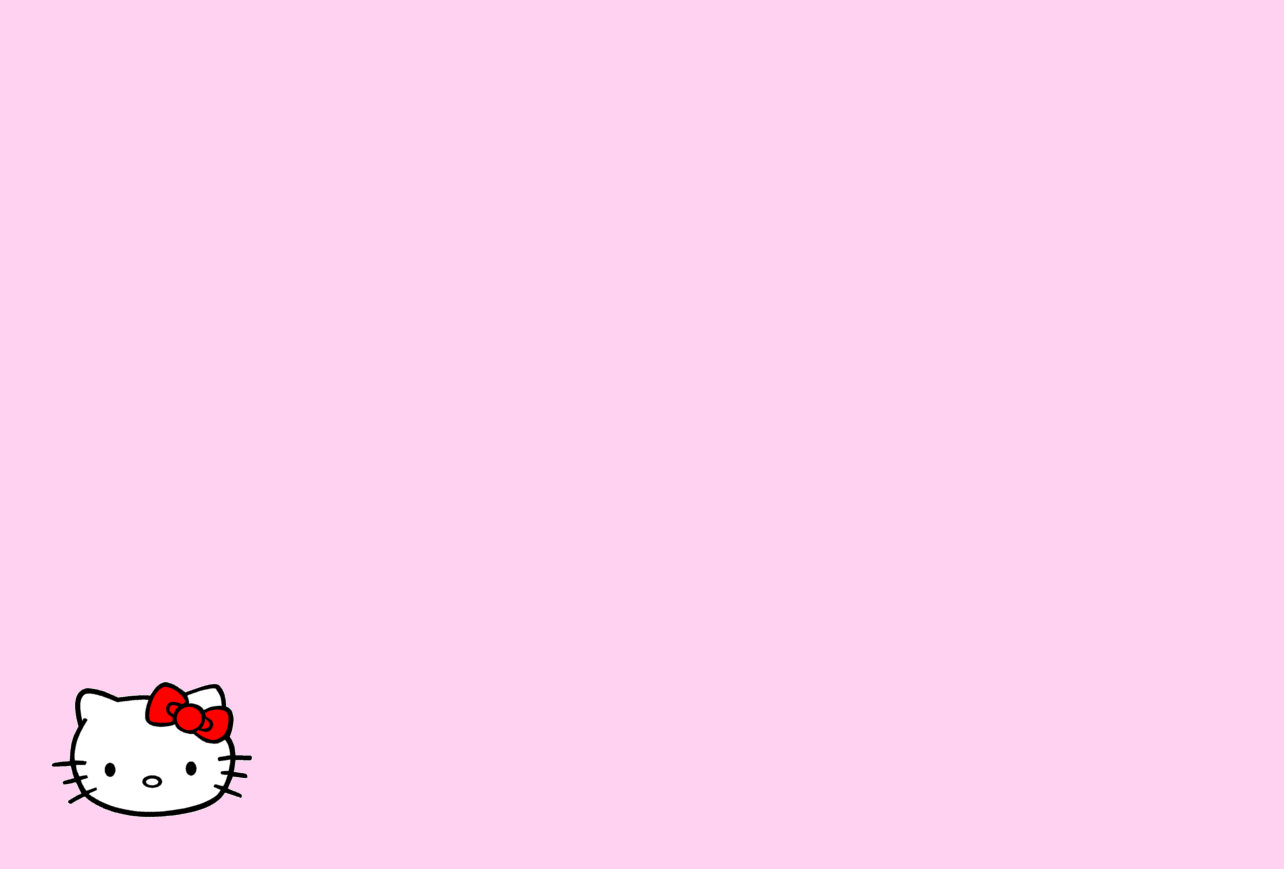
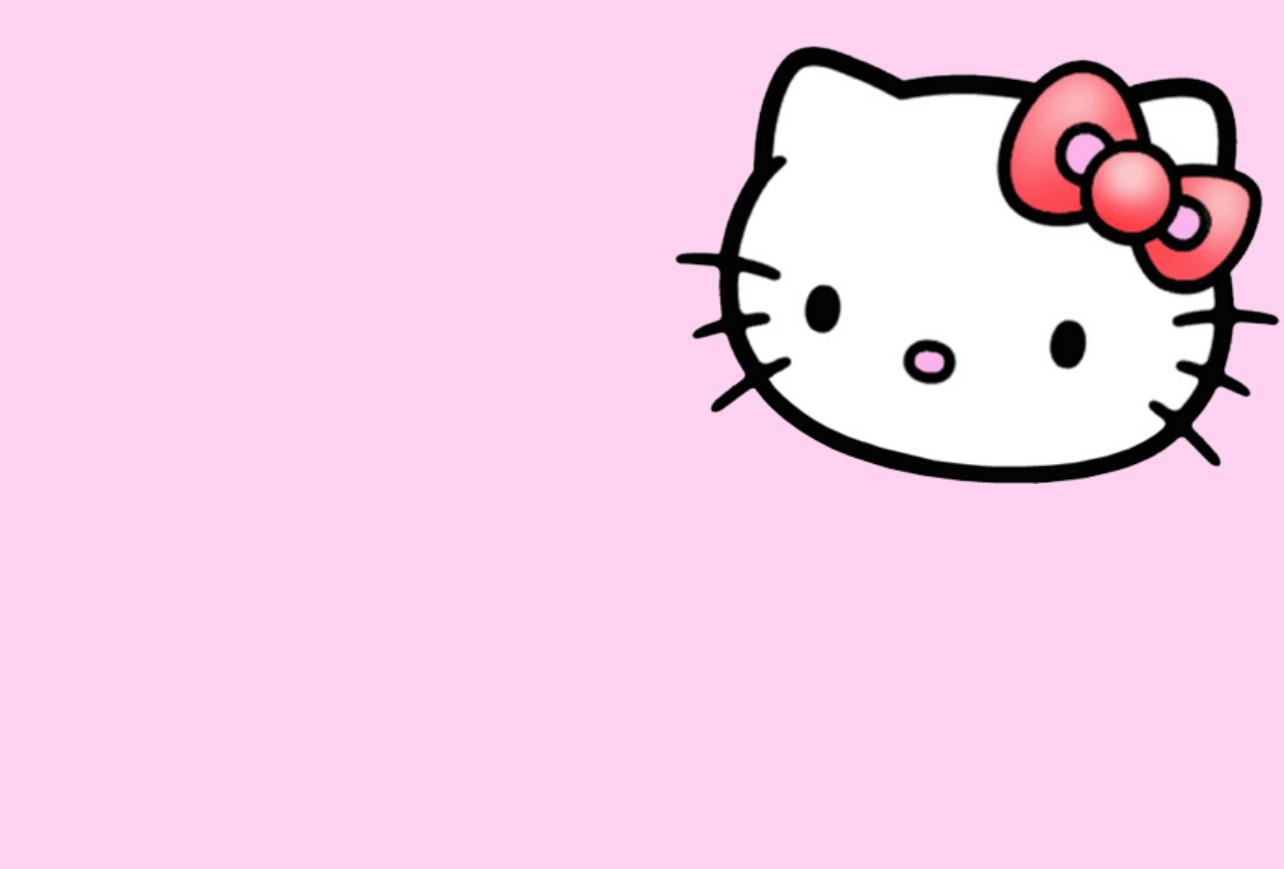
skin kitty :p

Changed region(s): [[0.5296, 0.0311, 0.9969, 0.5593], [0.0312, 0.7768, 0.1869, 0.9632]]

diff --git a/gespac/skins/kitty/param.css b/gespac/skins/kitty/param.css
@@ -6,12 +6,12 @@
 
 	
 /*	GENERAL	*/	
-body {background-color:#ffd2f1; font-family:ubuntu, Verdana, Arial, Helvetica, sans-serif; margin:0; color:#000;	background-position : left bottom;	background-image	: url('fond.jpg');	background-repeat	: no-repeat;}
+body {background-color:#ffd2f1; font-family:ubuntu, Verdana, Arial, Helvetica, sans-serif; margin:0; color:#000;	background-position:right top; background-image:url('fond.jpg'); background-repeat:no-repeat;}
 h3 {	margin : 0px;}
 input, textarea, select {border:1px solid #6E6F6A;}
-a { text-decoration:none; color:#003C9C;}
+a { text-decoration:none; color:#5F1499;}
 table {border:0; padding:4px; text-align:center; font-size:small; border-collapse:collapse;}
-th {background-color:orange; font-size:10px; padding:5px 0px; color:#000;}
+th {background-color:#A95EDB; font-size:10px; padding:5px 0px; color:#000;}
 img {border:0px; vertical-align:middle;}
 
 
@@ -28,18 +28,18 @@ img {border:0px; vertical-align:middle;}
 /*	menu de gauche	*/
 #menu { background-color:#ffd2f1;}
 .menu-item {padding:2px 10px;font-size:11px; }
-.menu-item:hover {background-color:#E3E3E3;}
+.menu-item:hover {background-color:#FF61A0;}
 .menu-current{font-size:14px; background-color:#FFF;}
 
 
 /*	Entetes des pages (avec les options dedans)	*/
-#entete-materiels, #entete-salles, #entete-marques {background-color:#83E684;}
-#entete-dossiers {background-color:#8683E6;}
-#entete-prets {background-color:#FFAF75;}
-#entete-utilisateurs, #entete-grades, #entete-importusers, #entete-moncompte {background-color:#759AFF;}
-#entete-college, #entete-statbat, #entete-infoserveur, #entete-statparc {background-color:#FAEF7D;}
-#entete-aic, #entete-recapfog, #entete-modportail, #entete-geninventaire, #entete-gestfichiers, #entete-migdossiers, #entete-migfog, #entete-migusers, #entete-wol, #entete-exportperso, #entete-taginventaire {background-color:#AA83E6;}
-#entete-importcsv, #entete-logs, #entete-dumpocs, #entete-dumpgespac, #entete-exports, #entete-importocs {background-color:#FF7A7A;}
+#entete-materiels, #entete-salles, #entete-marques {background-color:#DB5ECF;}
+#entete-dossiers {background-color:#DB5ECF;}
+#entete-prets {background-color:#DB5ECF;}
+#entete-utilisateurs, #entete-grades, #entete-importusers, #entete-moncompte {background-color:#DB5ECF;}
+#entete-college, #entete-statbat, #entete-infoserveur, #entete-statparc {background-color:#DB5ECF;}
+#entete-aic, #entete-recapfog, #entete-modportail, #entete-geninventaire, #entete-gestfichiers, #entete-migdossiers, #entete-migfog, #entete-migusers, #entete-wol, #entete-exportperso, #entete-taginventaire {background-color:#DB5ECF;}
+#entete-importcsv, #entete-logs, #entete-dumpocs, #entete-dumpgespac, #entete-exports, #entete-importocs {background-color:#DB5ECF;}
 
 /*	bandeau pour la partie login, grade et déconnexion	*/
 #bandeau		{font-size:12px; color:black;}
@@ -55,7 +55,7 @@ img {border:0px; vertical-align:middle;}
 /* la boite d'aide */
 .helpbox {font-size:11px; border:1px grey solid; background-color:#E6E6E6;}
 
-.tablehover tr:hover {background-color:#FFD769; padding:2px 0px;}
+.tablehover tr:hover {background-color:#DE87AD; padding:2px 0px;}
 
 /*	pour les dossiers	*/
 .innertable {background-color:#D9DBDC; border:none ;}
